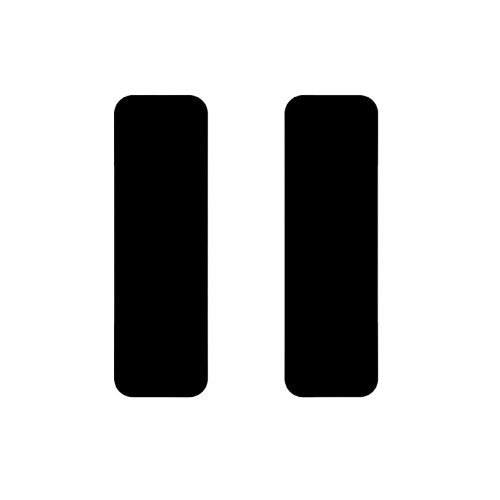
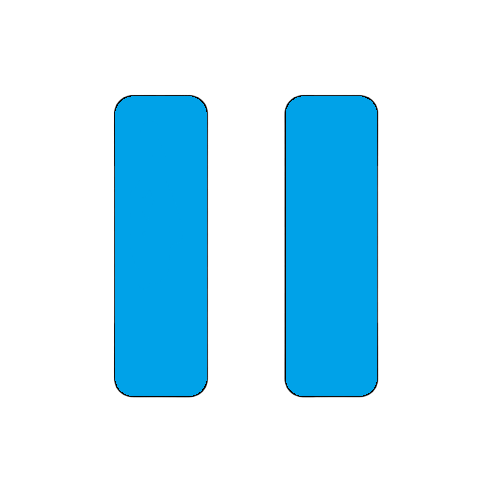
changed profile ui

Changed region(s): [[0.57, 0.18, 0.78, 0.81], [0.21, 0.18, 0.42, 0.81]]

diff --git a/src/app/pages/profil/profil.page.html b/src/app/pages/profil/profil.page.html
@@ -1,6 +1,6 @@
 <ion-content [fullscreen]="true">
 
-<ion-card 
+<!--<ion-card 
     class="notification-card" 
     (click)="toggleNotifications()" 
     [ngStyle]="{'background-color': notificationsEnabled ? '#4bca0c' : '#e03f41'}">
@@ -8,7 +8,55 @@
       <h2>Primanje PUSH obavijesti</h2>
       <p class="notification-status">{{ notificationsEnabled ? 'Uključeno' : 'Isključeno' }}</p>
     </ion-card-content>
+  </ion-card>-->
+
+  <p class="email">moj.username@gmail.com</p>
+
+  <div class="border"></div>
+
+  <ion-card class="notification">
+    <div class="wrapper">
+      <h2>Primanje notifikacija</h2>
+      <p>isključeno</p>
+    </div>
+    <ion-toggle mode="ios" aria-label="Success toggle" color="success" [checked]="true"></ion-toggle>
   </ion-card>
+  <div class="border"></div>
+
+
+  <ion-card class="location">
+  <div class="wrapper">
+    <h2>Određivanje lokacija</h2>
+    <p>sve lokacije</p>
+  </div>
+
+  <ion-toggle mode="ios" aria-label="Success toggle" color="success" [checked]="true"></ion-toggle>
+</ion-card>
+  <ion-card class="card lokacije">
+    Popis lokacija
+    <img src="assets/map marker.png" alt="map marker" class="card-img filter">
+  </ion-card>
+  <div class="border"></div>
+
+
+  <ion-card class="card">
+    Promjena lozinke
+    <img src="assets/lock.png" alt="lock icon" class="card-img filter">
+  </ion-card>
+  <ion-card class="card">
+    Promjena jezika
+    <img src="assets/croatia.png" alt="language icon" class="card-img">
+  </ion-card>
+  <ion-card class="card">
+    Obriši korisnički račun
+    <img src="assets/trash_can.png" alt="trash icon" class="card-img filter">
+  </ion-card>
+  <ion-card class="card">
+    Odjava
+    <img src="assets/arrow.png" alt="exit icon" class="card-img filter">
+  </ion-card>
+
+  <div class="space"></div>
 
 
   <ion-footer>

diff --git a/src/app/pages/profil/profil.page.scss b/src/app/pages/profil/profil.page.scss
@@ -1,18 +1,59 @@
+ion-content {
+  font-family: "Roboto";
+}
+
 h1 {
   font-family: "Roboto";
   text-align: center;
 }
 
 h2 {
-  color: black;
+  color: #757575;
   font-family: "Roboto";
   font-weight: 900;
 }
 
-.notification-status {
-  font-family: "Roboto";
-  font-size: 0.9rem;
+p {
+  margin-left: 1rem;
+}
+
+.notification,
+.location {
+  margin: 1rem;
+  box-shadow: none;
+  display: flex;
+  align-items: center;
+  justify-content: center;
+}
+
+.wrapper {
+  margin-right: 1.3rem;
+}
+
+.border {
+  border-bottom: 1px solid rgb(133, 132, 132);
+  width: 60%;
   margin: 1rem 0;
+}
+
+.card {
+  --background: #ebebeb;
+  width: 90%;
+  border-radius: 8px;
+  margin: 1rem auto 0 auto;
+  padding: 2rem;
+  box-shadow: none;
+  color: black;
+  font-weight: 900;
+  display: flex;
+  align-items: center;
+  justify-content: space-between;
+
+  p {
+    font-family: "Roboto";
+    font-size: 1.2rem;
+    text-align: left;
+  }
 }
 
 ion-footer {
@@ -20,7 +61,7 @@ ion-footer {
   background-color: #f0f0f0;
   height: 5rem;
   padding: 1rem 0;
-  position: absolute;
+  position: fixed;
   bottom: 0;
   left: 0;
   right: 0;
@@ -48,8 +89,21 @@ ion-footer {
   border-right: 2px solid #ffffff;
 }
 
+.card-img {
+  height: 8vmin;
+}
+
+.filter {
+  filter: invert(48%) sepia(100%) saturate(438%) hue-rotate(139deg) brightness(97%) contrast(98%);
+}
+
+.space {
+  margin: 8rem 0;
+}
+
 .footer-icon {
   height: 10vmin;
+  margin-left: 1rem;
 }
 
 p {

diff --git a/src/app/pages/home/home.page.scss b/src/app/pages/home/home.page.scss
@@ -9,10 +9,10 @@ ion-content {
 
 }
 
-/*.idle {
-    background: radial-gradient(circle at 50% 50%, rgba(255, 255, 255, 1) 51%, rgb(255, 4, 0) 100%);
+.idle {
+    background: radial-gradient(circle at 50% 50%, rgba(255, 255, 255, 1) 51%, rgb(0, 166, 200) 100%);
     transition: background 0.3s ease-in-out;
-  }*/
+  }
 
 .recording {
   background: radial-gradient(circle, rgba(255, 255, 255, 1) 50%, rgb(43, 235, 0) 100%);
@@ -81,9 +81,9 @@ h2 {
   
 }
 
-@media screen  and (min-width: 360px) {
+@media screen  and (min-width: 350px) {
   h2 {
-    margin-top: 120vmin;
+    margin-top: 95vmin;
     font-size: 3rem;
   }
   
@@ -94,13 +94,13 @@ ion-footer {
   background-color: #f0f0f0;
   height: 5rem;
   padding: 1rem 0;
-  position: absolute;
-  bottom: 0;
-  left: 0;
-  right: 0;
   display: flex;
   justify-content: center;
   align-items: center;
+  position: fixed;
+  bottom: 0;
+  left: 0;
+  right: 0;
 }
 
 .footer-btn-container {

diff --git a/src/app/pages/popis/popis.page.scss b/src/app/pages/popis/popis.page.scss
@@ -81,7 +81,7 @@ ion-footer {
   background-color: #f0f0f0;
   height: 5rem;
   padding: 1rem 0;
-  position: absolute;
+  position: fixed;
   bottom: 0;
   left: 0;
   right: 0;
@@ -107,6 +107,12 @@ ion-footer {
 .home-button,
 .list-button {
   border-right: 2px solid #ffffff;
+}
+
+.img-wrapper {
+  width: 200px;
+  height: 200px;
+  position: relative;
 }
 
 .play-icon {
